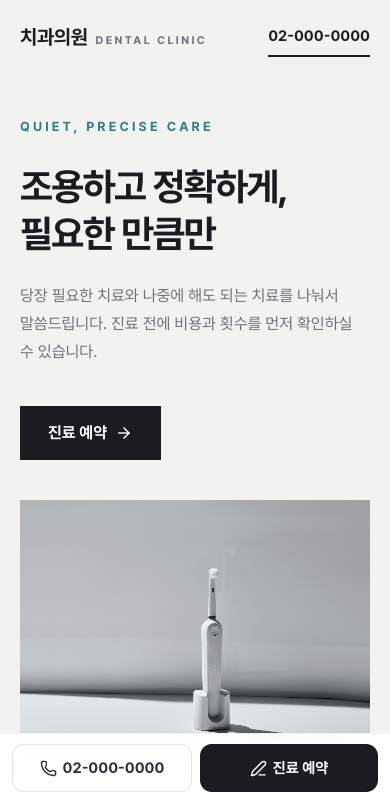
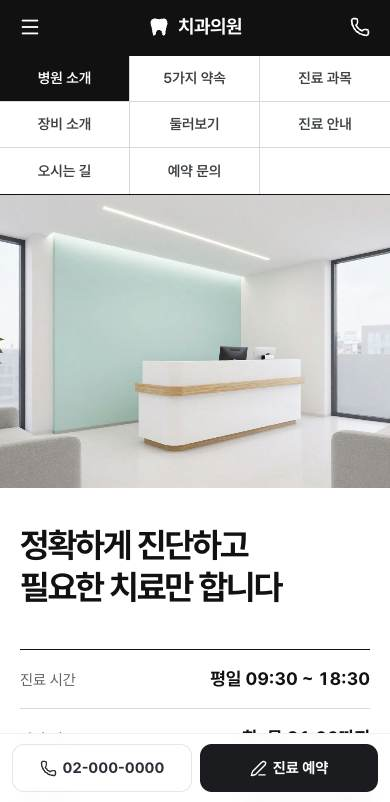
치과 시안 A를 블랙 그리드 구성으로 다시 만듦

diff --git a/components/drafts/DentalA.tsx b/components/drafts/DentalA.tsx
@@ -1,131 +1,104 @@
 "use client";
 
 import Image from "next/image";
-import { ArrowRight } from "lucide-react";
+import { Menu, Phone } from "lucide-react";
 import { MonthSchedule } from "./MonthSchedule";
 
-// 치과 시안 A 화이트 미니멀(11-21). 회색과 흰색, 큰 여백과 얇은 선으로 정돈된 진료 이미지를 보여 준다. 메인 한 장, 기능 없음.
-// 사진: Unsplash 무료 라이선스(public/images/drafts/dent/a-*)
-const IMG = "/images/drafts/dent";
-const C = { ink: "#1a1c1f", sub: "#6b7079", line: "#e5e6e8", soft: "#f2f2f0", teal: "#2a7f86" };
+// 치과 시안 A 블랙 그리드형(11-24 다시 만듦). 참고: 아임웹 전문가 포트폴리오의 고덕이래치과(검정 헤더, 가운데 로고, 격자 메뉴표, 직선 구성).
+// 다른 시안의 헤더, 영어 한 줄, 두 줄 제목, 하단 고정 버튼 구성을 쓰지 않는다. 모서리는 전부 직각, 선은 1px 검정. 메인 한 장, 기능 없음, 인물 없음.
+// 사진: public/images/demo-dental(로비, CT, 임플란트, 교정, 기구), public/images/drafts/dent(진료실)
+const D = "/images/demo-dental";
+const R = "/images/drafts/dent";
+const C = { ink: "#111111", sub: "#5f6368", line: "#111111", hair: "#d9d9d9", soft: "#f3f3f3", blue: "#0b78c2" };
 const TEL = "02-000-0000";
 
-const CARE = [
-  { en: "IMPLANT", t: "임플란트", d: "3D CT로 뼈 두께와 신경 위치를 확인한 뒤 식립 위치를 미리 설계합니다." },
-  { en: "ORTHODONTICS", t: "치아교정", d: "투명교정과 설측교정 중 생활 방식에 맞는 방법을 상담에서 비교해 드립니다." },
-  { en: "AESTHETIC", t: "심미 보철", d: "라미네이트와 올세라믹으로 자연 치아에 가까운 색과 모양을 맞춥니다." },
-  { en: "GENERAL", t: "일반 진료", d: "충치, 신경치료, 잇몸 치료와 정기 검진, 스케일링을 진행합니다." },
+const MENU = ["병원 소개", "5가지 약속", "진료 과목", "장비 소개", "둘러보기", "진료 안내", "오시는 길", "예약 문의", ""];
+
+const PROMISE = [
+  { t: "필요한 치료만 권합니다", d: "당장 필요한 치료와 지켜봐도 되는 치료를 나눠 설명합니다." },
+  { t: "진료 전에 비용을 안내합니다", d: "치료 순서, 횟수, 비급여 비용을 서면으로 먼저 드립니다." },
+  { t: "기구는 1인 1기구로 씁니다", d: "환자마다 멸균 포장을 새로 열어 사용합니다." },
+  { t: "담당 의사가 끝까지 진료합니다", d: "상담한 의사가 치료와 경과 확인까지 맡습니다." },
+  { t: "치료 후 정기 검진을 안내합니다", d: "6개월마다 검진 일정을 문자로 알려 드립니다." },
 ];
+
+const CARE = [
+  { t: "임플란트", d: "3D CT로 뼈 두께와 신경 위치를 확인하고 식립 위치를 설계합니다.", img: `${D}/implant.jpg`, alt: "임플란트 구조 모형" },
+  { t: "치아교정", d: "투명교정과 설측교정을 상담에서 비교해 드립니다.", img: `${D}/ortho.jpg`, alt: "투명 교정 장치" },
+  { t: "일반 진료", d: "충치, 신경치료, 잇몸 치료, 정기 검진, 스케일링을 진료합니다.", img: `${D}/scaling.jpg`, alt: "멸균 트레이 위의 진료 기구" },
+  { t: "정밀 진단", d: "3D CT와 구강 스캐너로 촬영하고 화면으로 설명합니다.", img: `${D}/ct.jpg`, alt: "태블릿으로 보는 치아 CT 영상" },
+];
+
+const HOURS = [
+  ["월, 수, 금", "09:30 ~ 18:30"],
+  ["화, 목", "09:30 ~ 21:00"],
+  ["토요일", "09:30 ~ 14:00"],
+  ["점심시간", "13:00 ~ 14:00"],
+  ["일요일, 공휴일", "휴진"],
+];
+
+function Tooth({ size = 22, color = "#fff" }: { size?: number; color?: string }) {
+  return (
+    <svg width={size} height={size} viewBox="0 0 24 24" fill="none" aria-hidden>
+      <path d="M7.2 2.6c-2.6 0-4.4 2-4.4 4.8 0 2.2.8 3.6 1.3 5.6.5 2 .6 4.3 1 6.2.3 1.4.9 2.2 1.8 2.2 1.1 0 1.5-1 1.8-2.6.3-1.7.5-3.6 3.3-3.6s3 1.9 3.3 3.6c.3 1.6.7 2.6 1.8 2.6.9 0 1.5-.8 1.8-2.2.4-1.9.5-4.2 1-6.2.5-2 1.3-3.4 1.3-5.6 0-2.8-1.8-4.8-4.4-4.800-1.700 0-2.900.9-4.800.9s-3.100-.9-4.800-.9z" fill={color} />
+    </svg>
+  );
+}
+
+const H2 = "text-[26px] font-bold tracking-[-0.04em] md:text-[38px]";
 
 export function DentalA() {
   return (
-    <div className="min-h-screen text-[16px] leading-[1.75] md:text-[17px]" style={{ background: "#fff", color: C.ink }}>
-      <header className="absolute inset-x-0 z-20">
-        <div className="mx-auto flex h-[78px] max-w-[1280px] items-center justify-between px-5 md:px-10">
-          <p className="flex items-baseline gap-2">
-            <span className="text-[20px] font-bold tracking-[-0.02em]">치과의원</span>
-            <span className="text-[11px] font-bold tracking-[0.22em]" style={{ color: C.sub }}>DENTAL CLINIC</span>
+    <div className="min-h-screen bg-white text-[16px] leading-[1.7] md:text-[17px]" style={{ color: C.ink }}>
+      <header className="sticky top-0 z-20 text-white" style={{ background: C.ink }}>
+        <div className="mx-auto grid h-[58px] max-w-[1200px] grid-cols-[48px_1fr_48px] items-center px-2 md:h-[68px] md:px-6">
+          <span className="grid h-11 w-11 place-items-center" aria-hidden>
+            <Menu size={22} />
+          </span>
+          <p className="flex items-center justify-center gap-2 text-[19px] font-bold tracking-[-0.02em] md:text-[22px]">
+            <Tooth />
+            치과의원
           </p>
-          <nav aria-label="주 메뉴" className="hidden gap-10 text-[15px] font-medium lg:flex" style={{ color: "#3b3f45" }}>
-            {["병원 소개", "진료 과목", "둘러보기", "진료 안내", "오시는 길"].map((m) => (
-              <span key={m}>{m}</span>
-            ))}
-          </nav>
-          <span className="inline-flex h-10 items-center border-b-2 text-[15px] font-bold" style={{ borderColor: C.ink }}>
-            {TEL}
+          <span className="grid h-11 w-11 place-items-center justify-self-end" aria-label={`전화 ${TEL}`}>
+            <Phone size={20} aria-hidden />
           </span>
         </div>
       </header>
 
-      <section className="relative px-5 pt-[78px] md:px-10" style={{ background: C.soft }}>
-        <div className="mx-auto grid max-w-[1280px] items-center gap-10 pb-16 pt-10 lg:grid-cols-[1fr_1.15fr] lg:gap-16 lg:pb-0 lg:pt-0">
-          <div className="lg:py-28">
-            <p className="text-[13px] font-bold tracking-[0.24em]" style={{ color: C.teal }}>QUIET, PRECISE CARE</p>
-            <h1 className="mt-6 text-[38px] font-bold leading-[1.25] tracking-[-0.04em] md:text-[62px]">
-              조용하고 정확하게,
+      <nav aria-label="주 메뉴" className="border-b" style={{ borderColor: C.line }}>
+        <ul className="mx-auto grid max-w-[1200px] grid-cols-3 text-center text-[14.5px] font-semibold md:text-[16px]" role="list">
+          {MENU.map((m, i) => (
+            <li
+              key={i}
+              className="flex min-h-[46px] items-center justify-center border-b border-r md:min-h-[54px] [&:nth-child(3n)]:border-r-0 [&:nth-last-child(-n+3)]:border-b-0"
+              style={{ borderColor: C.hair, background: i === 0 ? C.ink : "#fff", color: i === 0 ? "#fff" : "#3c4043" }}
+            >
+              {m}
+            </li>
+          ))}
+        </ul>
+      </nav>
+
+      <section className="border-b" style={{ borderColor: C.line }}>
+        <div className="mx-auto max-w-[1200px] md:grid md:grid-cols-[1.25fr_1fr]">
+          <div className="relative aspect-[4/3] md:aspect-auto md:min-h-[520px]">
+            <Image src={`${D}/lobby.jpg`} alt="접수 데스크와 대기 공간이 있는 치과 로비" fill priority sizes="(min-width: 768px) 56vw, 100vw" className="object-cover" />
+          </div>
+          <div className="flex flex-col justify-between gap-10 px-5 py-9 md:border-l md:px-10 md:py-12" style={{ borderColor: C.line }}>
+            <h1 className="text-[34px] font-bold leading-[1.25] tracking-[-0.05em] md:text-[52px]">
+              정확하게 진단하고
               <br />
-              필요한 만큼만
+              필요한 치료만 합니다
             </h1>
-            <p className="mt-6 max-w-[440px] text-[16px] md:text-[18px]" style={{ color: C.sub }}>
-              당장 필요한 치료와 나중에 해도 되는 치료를 나눠서 말씀드립니다. 진료 전에 비용과 횟수를 먼저 확인하실 수 있습니다.
-            </p>
-            <span className="mt-10 inline-flex h-[54px] items-center gap-2 px-7 font-bold text-white" style={{ background: C.ink }}>
-              진료 예약
-              <ArrowRight size={18} aria-hidden />
-            </span>
-          </div>
-          <div className="relative aspect-[4/3] lg:aspect-[5/6] lg:self-stretch">
-            <Image src={`${IMG}/a-hero.jpg`} alt="밝은 회색 배경 위의 전동 칫솔" fill priority sizes="(min-width: 1024px) 55vw, 100vw" className="object-cover" />
-          </div>
-        </div>
-      </section>
-
-      <section className="px-5 pt-16 md:px-10 md:pt-24">
-        <div className="mx-auto grid max-w-[1280px] gap-8 lg:grid-cols-[1fr_1.4fr] lg:items-center lg:gap-16">
-          <div>
-            <p className="text-[13px] font-bold tracking-[0.24em]" style={{ color: C.teal }}>SCHEDULE</p>
-            <h2 className="mt-4 text-[30px] font-bold leading-[1.3] tracking-[-0.03em] md:text-[42px]">
-              화, 목요일은
-              <br />
-              밤 9시까지 진료합니다
-            </h2>
-            <p className="mt-4" style={{ color: C.sub }}>퇴근 후에도 예약 없이 검진받으실 수 있습니다. 휴진일은 매달 이 달력에 먼저 공지합니다.</p>
-          </div>
-          <div className="border" style={{ borderColor: C.line }}>
-            <MonthSchedule accent="#c2412d" night={C.teal} rounded={0} />
-          </div>
-        </div>
-      </section>
-
-      <section className="px-5 py-24 md:px-10 md:py-32">
-        <div className="mx-auto max-w-[1280px]">
-          <div className="flex flex-col gap-4 md:flex-row md:items-end md:justify-between">
-            <div>
-              <p className="text-[13px] font-bold tracking-[0.24em]" style={{ color: C.teal }}>TREATMENTS</p>
-              <h2 className="mt-4 text-[30px] font-bold tracking-[-0.03em] md:text-[46px]">진료 과목</h2>
-            </div>
-            <p className="max-w-[420px]" style={{ color: C.sub }}>과목마다 진료 순서와 기간, 비용 범위를 진료 전에 서면으로 안내합니다.</p>
-          </div>
-          <ul className="mt-16 border-t" style={{ borderColor: C.ink }}>
-            {CARE.map((c) => (
-              <li key={c.en} className="grid gap-3 border-b py-9 md:grid-cols-[220px_1fr_1.3fr_40px] md:items-center md:gap-8 md:py-11" style={{ borderColor: C.line }}>
-                <span className="text-[12px] font-bold tracking-[0.22em]" style={{ color: C.sub }}>{c.en}</span>
-                <h3 className="text-[26px] font-bold tracking-[-0.03em] md:text-[32px]">{c.t}</h3>
-                <p className="text-[15px] md:text-[16px]" style={{ color: C.sub }}>{c.d}</p>
-                <ArrowRight size={22} className="hidden md:block" aria-hidden />
-              </li>
-            ))}
-          </ul>
-        </div>
-      </section>
-
-      <section className="px-5 md:px-10">
-        <div className="mx-auto grid max-w-[1280px] gap-5 md:grid-cols-[1.4fr_1fr]">
-          <div className="relative aspect-[4/3] overflow-hidden md:aspect-auto md:min-h-[560px]">
-            <Image src={`${IMG}/a-room.jpg`} alt="햇빛이 드는 밝은 진료실과 진료 의자" fill sizes="(min-width: 768px) 58vw, 100vw" className="object-cover" />
-          </div>
-          <div className="flex flex-col justify-between gap-10 p-8 md:p-12" style={{ background: C.soft }}>
-            <div>
-              <p className="text-[13px] font-bold tracking-[0.24em]" style={{ color: C.teal }}>CLINIC</p>
-              <h2 className="mt-4 text-[28px] font-bold leading-[1.4] tracking-[-0.03em] md:text-[36px]">
-                진료실은 모두
-                <br />
-                독립된 방입니다
-              </h2>
-              <p className="mt-5" style={{ color: C.sub }}>
-                옆 의자의 소리가 들리지 않게 진료실을 나눴습니다. 기구는 환자마다 멸균 포장을 열어 사용합니다.
-              </p>
-            </div>
-            <dl className="grid grid-cols-2 gap-6 border-t pt-8" style={{ borderColor: "#d9dad6" }}>
+            <dl className="border-t" style={{ borderColor: C.line }}>
               {[
-                ["독립 진료실", "6실"],
-                ["3D CT", "보유"],
-                ["멸균 기준", "1인 1기구"],
-                ["야간 진료", "화, 목"],
+                ["진료 시간", "평일 09:30 ~ 18:30"],
+                ["야간 진료", "화, 목 21:00까지"],
+                ["예약 문의", TEL],
               ].map(([k, v]) => (
-                <div key={k}>
-                  <dt className="text-[13px]" style={{ color: C.sub }}>{k}</dt>
-                  <dd className="mt-1 text-[22px] font-bold">{v}</dd>
+                <div key={k} className="flex items-baseline justify-between gap-4 border-b py-3.5" style={{ borderColor: C.hair }}>
+                  <dt className="text-[15px]" style={{ color: C.sub }}>{k}</dt>
+                  <dd className="text-[18px] font-bold tabular-nums md:text-[20px]">{v}</dd>
                 </div>
               ))}
             </dl>
@@ -133,50 +106,113 @@ export function DentalA() {
         </div>
       </section>
 
-      <section className="px-5 py-24 md:px-10 md:py-36">
-        <div className="mx-auto grid max-w-[1280px] items-center gap-12 md:grid-cols-2 md:gap-20">
+      <section className="border-b" style={{ borderColor: C.line }}>
+        <div className="mx-auto max-w-[1200px] px-5 py-14 md:grid md:grid-cols-[300px_1fr] md:gap-12 md:px-10 md:py-24">
+          <h2 className={H2}>5가지 약속</h2>
+          <ol className="mt-7 border-t md:mt-0" style={{ borderColor: C.line }} role="list">
+            {PROMISE.map((p, i) => (
+              <li key={p.t} className="grid grid-cols-[44px_1fr] gap-x-2 border-b py-5 md:grid-cols-[64px_1fr_1.2fr] md:items-baseline md:gap-x-6" style={{ borderColor: C.hair }}>
+                <span className="text-[22px] font-bold tabular-nums md:text-[26px]" style={{ color: C.blue }}>{i + 1}</span>
+                <h3 className="text-[19px] font-bold tracking-[-0.03em] md:text-[21px]">{p.t}</h3>
+                <p className="col-start-2 text-[15.5px] md:col-start-3 md:text-[16px]" style={{ color: C.sub }}>{p.d}</p>
+              </li>
+            ))}
+          </ol>
+        </div>
+      </section>
+
+      <section className="border-b" style={{ borderColor: C.line }}>
+        <div className="mx-auto max-w-[1200px] px-5 pt-14 md:px-10 md:pt-24">
+          <h2 className={H2}>진료 과목</h2>
+        </div>
+        <ul className="mx-auto mt-8 grid max-w-[1200px] grid-cols-2 border-t md:mt-10 md:grid-cols-4" style={{ borderColor: C.line }} role="list">
+          {CARE.map((c) => (
+            <li key={c.t} className="border-b border-r [&:nth-child(2n)]:border-r-0 md:border-b-0 md:[&:nth-child(2n)]:border-r md:[&:nth-child(4n)]:border-r-0" style={{ borderColor: C.hair }}>
+              <div className="relative aspect-square">
+                <Image src={c.img} alt={c.alt} fill sizes="(min-width: 768px) 25vw, 50vw" className="object-cover" />
+              </div>
+              <div className="px-4 py-5 md:px-6 md:py-7">
+                <h3 className="text-[20px] font-bold tracking-[-0.03em] md:text-[23px]">{c.t}</h3>
+                <p className="mt-1.5 text-[14.5px] leading-[1.6] md:text-[15.5px]" style={{ color: C.sub }}>{c.d}</p>
+              </div>
+            </li>
+          ))}
+        </ul>
+      </section>
+
+      <section className="border-b" style={{ borderColor: C.line, background: C.soft }}>
+        <div className="mx-auto max-w-[1200px] px-5 py-14 md:grid md:grid-cols-[300px_1fr] md:gap-12 md:px-10 md:py-24">
           <div>
-            <p className="text-[13px] font-bold tracking-[0.24em]" style={{ color: C.teal }}>HOURS</p>
-            <h2 className="mt-4 text-[30px] font-bold tracking-[-0.03em] md:text-[46px]">진료 시간</h2>
-            <dl className="mt-10 grid gap-0 border-t" style={{ borderColor: C.ink }}>
-              {[
-                ["월, 수, 금", "09:30 ~ 18:30"],
-                ["화, 목", "09:30 ~ 21:00 야간"],
-                ["토요일", "09:30 ~ 14:00"],
-                ["점심시간", "13:00 ~ 14:00"],
-              ].map(([k, v]) => (
-                <div key={k} className="flex justify-between border-b py-5 text-[17px] md:text-[18px]" style={{ borderColor: C.line }}>
-                  <dt style={{ color: C.sub }}>{k}</dt>
+            <h2 className={H2}>진료 안내</h2>
+            <p className="mt-3 text-[15.5px] md:text-[16px]" style={{ color: C.sub }}>휴진일과 야간 진료일은 매달 달력에 먼저 공지합니다.</p>
+          </div>
+          <div className="mt-7 border md:mt-0" style={{ borderColor: C.line }}>
+            <MonthSchedule accent="#c2412d" night={C.blue} rounded={0} />
+          </div>
+        </div>
+      </section>
+
+      <section className="border-b" style={{ borderColor: C.line }}>
+        <div className="mx-auto max-w-[1200px] px-5 pt-14 md:px-10 md:pt-24">
+          <h2 className={H2}>둘러보기</h2>
+        </div>
+        <div className="mx-auto mt-8 grid max-w-[1200px] border-t md:mt-10 md:grid-cols-[1.6fr_1fr]" style={{ borderColor: C.line }}>
+          <div className="relative aspect-[3/2] md:aspect-auto md:min-h-[480px]">
+            <Image src={`${R}/a-room.jpg`} alt="진료 의자가 놓인 밝은 독립 진료실" fill sizes="(min-width: 768px) 60vw, 100vw" className="object-cover" />
+          </div>
+          <dl className="grid grid-cols-2 content-center md:border-l" style={{ borderColor: C.line }}>
+            {[
+              ["독립 진료실", "6실"],
+              ["3D CT", "보유"],
+              ["구강 스캐너", "보유"],
+              ["주차", "건물 내 2시간"],
+            ].map(([k, v]) => (
+              <div key={k} className="border-b border-r px-5 py-7 [&:nth-child(2n)]:border-r-0 md:px-8 md:py-10" style={{ borderColor: C.hair }}>
+                <dt className="text-[14.5px]" style={{ color: C.sub }}>{k}</dt>
+                <dd className="mt-1 text-[22px] font-bold tracking-[-0.03em] md:text-[26px]">{v}</dd>
+              </div>
+            ))}
+          </dl>
+        </div>
+      </section>
+
+      <section className="text-white" style={{ background: C.ink }}>
+        <div className="mx-auto grid max-w-[1200px] gap-10 px-5 py-14 md:grid-cols-2 md:gap-16 md:px-10 md:py-24">
+          <div>
+            <h2 className={H2}>진료 시간</h2>
+            <dl className="mt-6 border-t border-white/40">
+              {HOURS.map(([k, v]) => (
+                <div key={k} className="flex justify-between gap-4 border-b border-white/20 py-3.5 text-[16.5px] md:text-[18px]">
+                  <dt className="text-white/70">{k}</dt>
                   <dd className="font-bold tabular-nums">{v}</dd>
                 </div>
               ))}
             </dl>
-            <p className="mt-4 text-[14px]" style={{ color: C.sub }}>일요일, 공휴일 휴진</p>
           </div>
-          <div className="relative aspect-[4/5] overflow-hidden">
-            <Image src={`${IMG}/a-brush.jpg`} alt="흰 받침 위에 세워 둔 검은 전동 칫솔" fill sizes="(min-width: 768px) 45vw, 100vw" className="object-cover" />
-          </div>
-        </div>
-      </section>
-
-      <section className="px-5 py-20 text-white md:px-10 md:py-24" style={{ background: C.ink }}>
-        <div className="mx-auto flex max-w-[1280px] flex-col gap-8 md:flex-row md:items-center md:justify-between">
-          <h2 className="text-[28px] font-bold leading-[1.35] tracking-[-0.03em] md:text-[40px]">첫 진료는 검진과 상담부터</h2>
-          <div className="flex flex-wrap items-center gap-5">
-            <span className="inline-flex h-[56px] items-center gap-2 bg-white px-8 text-[17px] font-bold" style={{ color: C.ink }}>
-              진료 예약
-              <ArrowRight size={18} aria-hidden />
-            </span>
-            <span className="text-[22px] font-bold tabular-nums">{TEL}</span>
+          <div>
+            <h2 className={H2}>오시는 길</h2>
+            <dl className="mt-6 border-t border-white/40">
+              {[
+                ["주소", "서울특별시 송파구 일대"],
+                ["지하철", "2번 출구 앞 건물 3층"],
+                ["예약 문의", TEL],
+              ].map(([k, v]) => (
+                <div key={k} className="flex justify-between gap-4 border-b border-white/20 py-3.5 text-[16.5px] md:text-[18px]">
+                  <dt className="text-white/70">{k}</dt>
+                  <dd className="text-right font-bold tabular-nums">{v}</dd>
+                </div>
+              ))}
+            </dl>
           </div>
         </div>
       </section>
 
-      <footer className="px-5 py-10 text-[14px] md:px-10" style={{ color: C.sub }}>
-        <div className="mx-auto flex max-w-[1280px] flex-col gap-2 md:flex-row md:justify-between">
-          <p>치과의원, 서울특별시 송파구 일대, 지하철역 2번 출구 앞</p>
-          <p>예약 문의 {TEL}</p>
-        </div>
+      <footer className="px-5 py-8 text-center text-[14px] md:px-10" style={{ color: C.sub }}>
+        <p className="flex items-center justify-center gap-1.5 font-bold" style={{ color: C.ink }}>
+          <Tooth size={16} color={C.ink} />
+          치과의원
+        </p>
+        <p className="mt-1">서울특별시 송파구 일대 | 예약 문의 {TEL}</p>
       </footer>
     </div>
   );

diff --git a/lib/variants.ts b/lib/variants.ts
@@ -14,7 +14,7 @@ export const VARIANTS: Record<string, { id: string; label: string }[]> = {
     { id: "b", label: "시안 B 사장님형" },
   ],
   "dental-homepage": [
-    { id: "a", label: "시안 A 미니멀" },
+    { id: "a", label: "시안 A 모던형" },
     { id: "b", label: "시안 B 가족형" },
   ],
   academy: [
